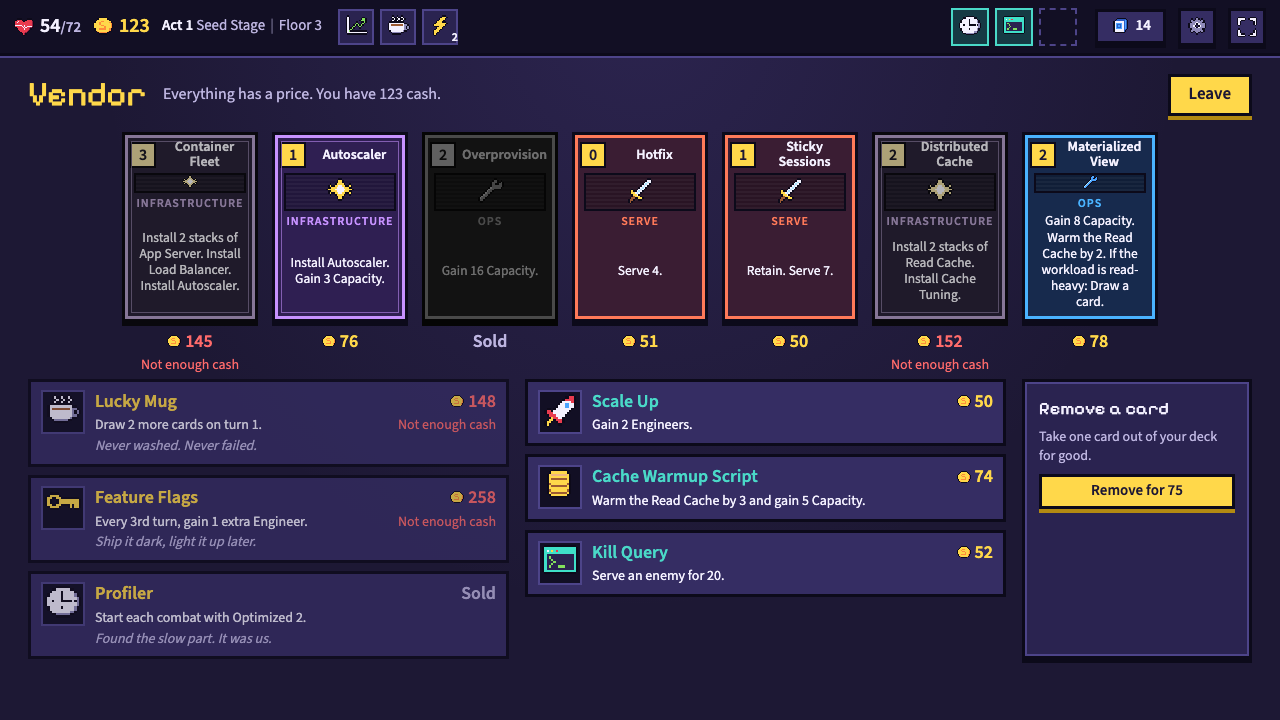
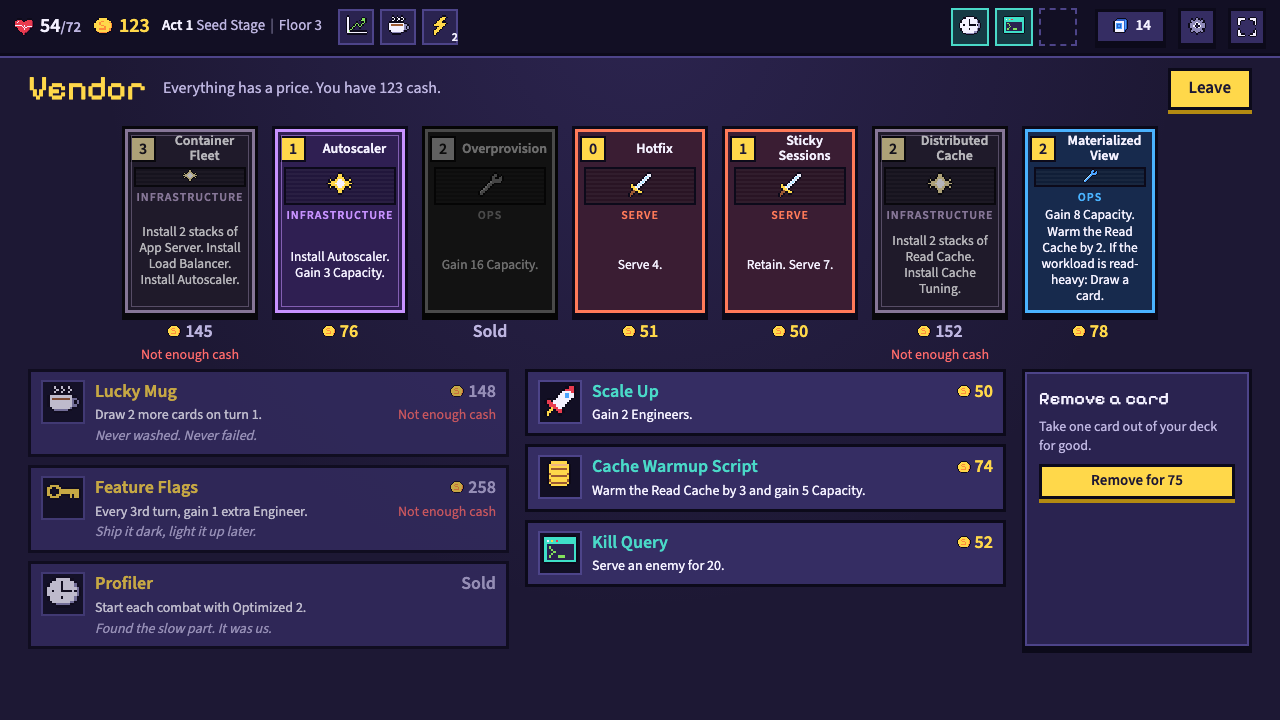
fix(ui): dim blocked Vendor prices instead of red, and give the Vendor more bottom room
Red read as short of cash even when runbook slots were full. The reason line already says why.

diff --git a/frontend/src/ui/screens/Shop.tsx b/frontend/src/ui/screens/Shop.tsx
@@ -8,11 +8,11 @@ import { CardView } from "../CardView";
 import { cardDef, relicDef, runbookDef, useContent } from "../content";
 import { RelicTile, RunbookTile } from "../Tiles";
 
-/** The price, red when the item can't be bought now. */
+/** The price, dimmed when the item can't be bought now. */
 function Price({ price, blocked, sold }: { price: number; blocked: boolean; sold: boolean }) {
   if (sold) return <span className="price is-sold">Sold</span>;
   return (
-    <span className={`price${blocked ? " is-short" : ""}`}>
+    <span className={`price${blocked ? " is-blocked" : ""}`}>
       <Icon name="cash" size={14} />
       {price}
     </span>

diff --git a/frontend/src/ui/ui.css b/frontend/src/ui/ui.css
@@ -2246,7 +2246,7 @@ kbd {
 
 .shop {
   height: 664px;
-  padding: 16px 28px;
+  padding: 10px 28px 16px;
   display: flex;
   flex-direction: column;
 }
@@ -2263,7 +2263,7 @@ kbd {
 .shop__cards li {
   display: grid;
   justify-items: center;
-  gap: 8px;
+  gap: 4px;
 }
 
 .offer {
@@ -2288,8 +2288,9 @@ kbd {
   color: var(--gold);
 }
 
-.price.is-short {
-  color: var(--red);
+/* Dimmed, not red: the reason under it says why, and red would read as short of cash. */
+.price.is-blocked {
+  color: var(--muted);
 }
 
 .price.is-sold {
